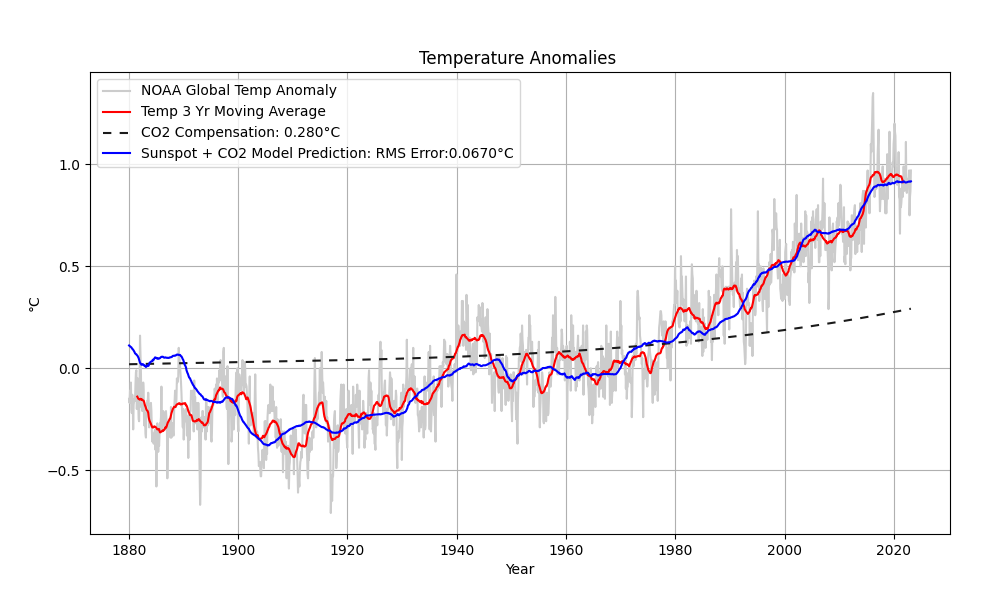
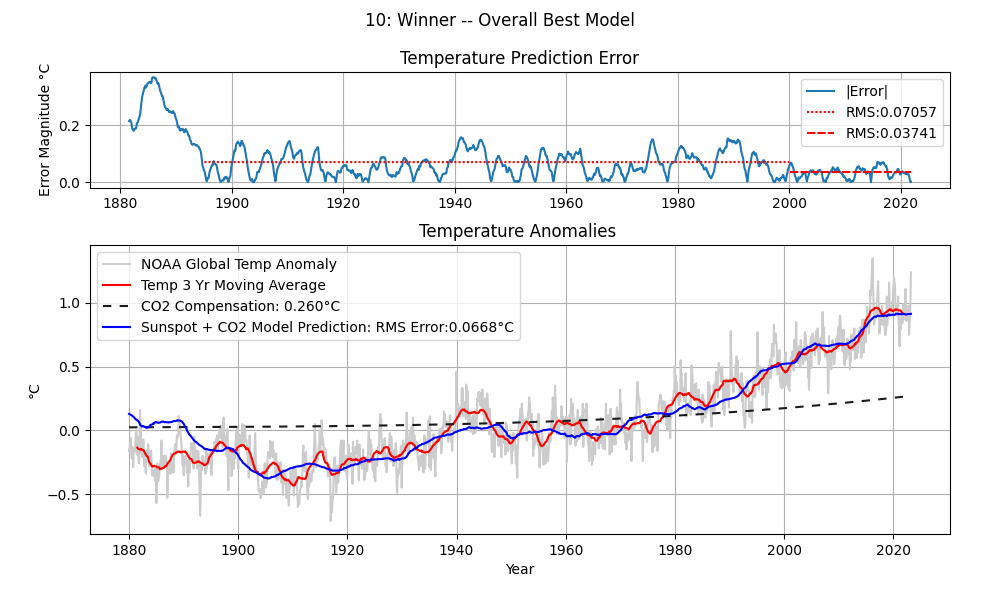
Add files via upload

diff --git a/tempPredict.py b/tempPredict.py
@@ -110,7 +110,7 @@ parms = {'modelName':'10: Winner -- Overall Best Model','fname':'bestOverallMode
 #>>>>>>>>>>> Best Overall Model. Balances overall RMS error with post 2000 error <<<<<<<<<<<<<<<<<
 parms = {'modelName':'10: Winner -- Overall Best Model','fname':'bestOverallModel.csv',
          'modType':'NOTCH','rectW':98.8, 'rectW2':11.1, 'MA':3, 'M42':True, 
-         'f42parms':f42parms1, 'f11parms':f11parms2, 'advance':0, 'weightedFit':True, 'useRMSweight':True, 'co2comp':0.28}  
+         'f42parms':f42parms1, 'f11parms':f11parms2, 'advance':0, 'weightedFit':True, 'useRMSweight':True, 'co2comp':0.26}  
 
 saveResults = False  #If true and fname is defined in parms, the output results are saved into a CSV file
 
@@ -154,9 +154,9 @@ def rms(x):
 def getCO2model(scale=1):
     # For years between 1880 and Nov 2020, returns a value  between 0.09*scale and scale.  
     # The polynomial is a fit to the temperature data, but the model returns predictions
-    # very close to the log of co2 contributions when similarly scaled.
+    # very close to the log of co2 contributions.
     # This model allows the co2 compensation prediction to extend into the future
-    polyco2 = [ 3.91996394e-07, -2.21245891e-03,  4.16319202e+00, -2.61201747e+03]
+    polyco2 = [ 3.03495678e-07, -1.71295381e-03,  3.22327145e+00, -2.02202272e+03]
     co2Model = np.poly1d([x*scale for x in polyco2])
     return co2Model
 
